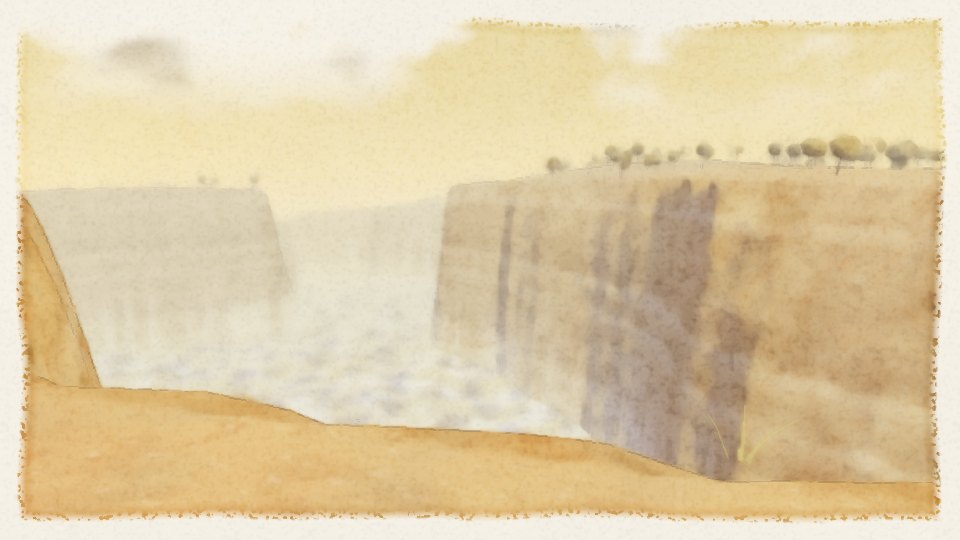
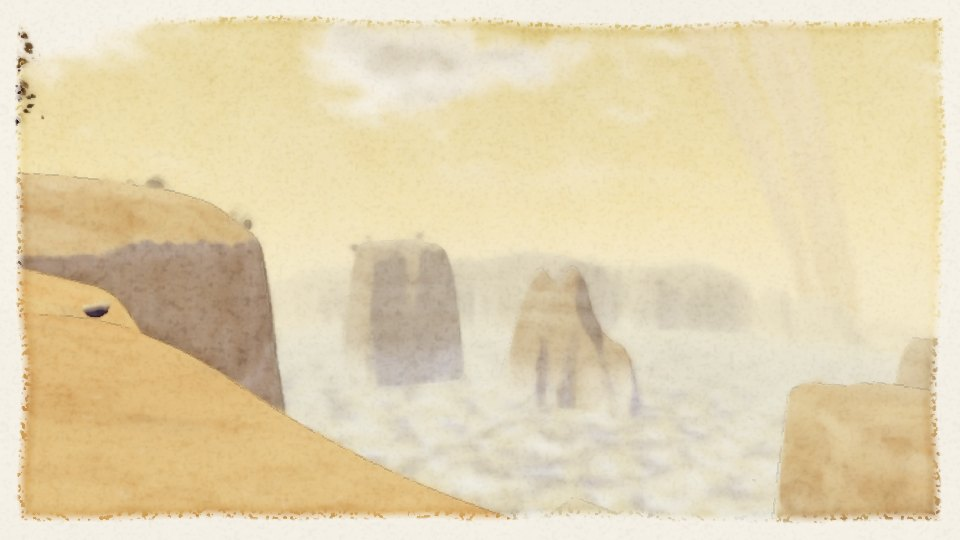
[painter] WIP snapshot of in-progress files (backup made by the coordinator)

diff --git a/src/world/surface.js b/src/world/surface.js
@@ -657,6 +657,29 @@ class Surface {
     return o;
   }
 
+  // The nearest dry, gentle ground of the same biome to a site (a vista must be a place a
+  // walker can stand): rings outward to 240 m; the site itself if nothing better is found.
+  standNear(site) {
+    const o = this._so || (this._so = makeSample(this.nB)), R = this.R;
+    let ux = -site.z, uy = 0, uz = site.x; let l = Math.hypot(ux, uy, uz) || 1; ux /= l; uz /= l;
+    const vx = site.y * uz - site.z * uy, vy = site.z * ux - site.x * uz, vz = site.x * uy - site.y * ux;
+    for (let r = 0; r <= 240; r += 12) {
+      const na = r === 0 ? 1 : Math.round(r / 6);
+      for (let a = 0; a < na; a++) {
+        const an = a / na * Math.PI * 2 + r * 0.31, e = r / R;
+        let x = site.x + (ux * Math.cos(an) + vx * Math.sin(an)) * e, y = site.y + (uy * Math.cos(an) + vy * Math.sin(an)) * e, z = site.z + (uz * Math.cos(an) + vz * Math.sin(an)) * e;
+        l = 1 / Math.hypot(x, y, z); x *= l; y *= l; z *= l;
+        this.sample(x, y, z, o, false);
+        if (o.top !== site.b || o.w[site.b] < 0.85 || (o.lq !== NOLQ && o.lq > o.h - 0.4)) continue;
+        const h0 = o.h, d = 4 / R;
+        let rough = 0;
+        for (let t = 0; t < 4 && rough < 1; t++) { const c = Math.cos(t * Math.PI / 2), sn = Math.sin(t * Math.PI / 2); rough = Math.max(rough, Math.abs(this.heightAt(x + (ux * c + vx * sn) * d, y + (uy * c + vy * sn) * d, z + (uz * c + vz * sn) * d) - h0)); }
+        if (rough < 1.0) return [x, y, z];
+      }
+    }
+    return [site.x, site.y, site.z];
+  }
+
   heightAt(x, y, z) {
     const o = this._ho || (this._ho = makeSample(this.nB));
     this.sample(x, y, z, o, false);
@@ -832,7 +855,8 @@ export function getVistasPure(bodyId) {
     if (seen[bi.id] === 1 || !(EASELS[bodyId] && EASELS[bodyId][bi.id]) || i > 0) {
       // a site of a biome whose easel is already listed counts as its second view
       if (EASELS[bodyId] && EASELS[bodyId][bi.id] && S.sites.findIndex((x) => x.b === s.b) === i) { seen[bi.id]--; continue; }
-      out.push({ id: bodyId + '-' + bi.id + '-' + seen[bi.id], name: bi.name + (seen[bi.id] > 1 ? ' II' : ''), unitDir: { x: s.x, y: s.y, z: s.z } });
+      const st = S.standNear(s);
+      out.push({ id: bodyId + '-' + bi.id + '-' + seen[bi.id], name: bi.name + (seen[bi.id] > 1 ? ' II' : ''), unitDir: { x: st[0], y: st[1], z: st[2] } });
     }
   }
   return out;

diff --git a/src/art/easels.js b/src/art/easels.js
@@ -34,7 +34,7 @@ export const EASELS = {
   jupiter: {
     sky_islands: [0.725579, 0.687592, -0.027429, 130, -5],
     storm_wall: [0.558881, -0.330154, 0.760691, 210, 13.7],
-    hanging_gardens: [-0.324317, -0.776218, 0.540652, 30, 14.9],
+    hanging_gardens: [-0.724292, 0.569513, 0.388658, 150.0, 14.8],
     lightning_plains: [0.545695, -0.135619, -0.826937, 60, -0.6],
   },
   saturn: {
